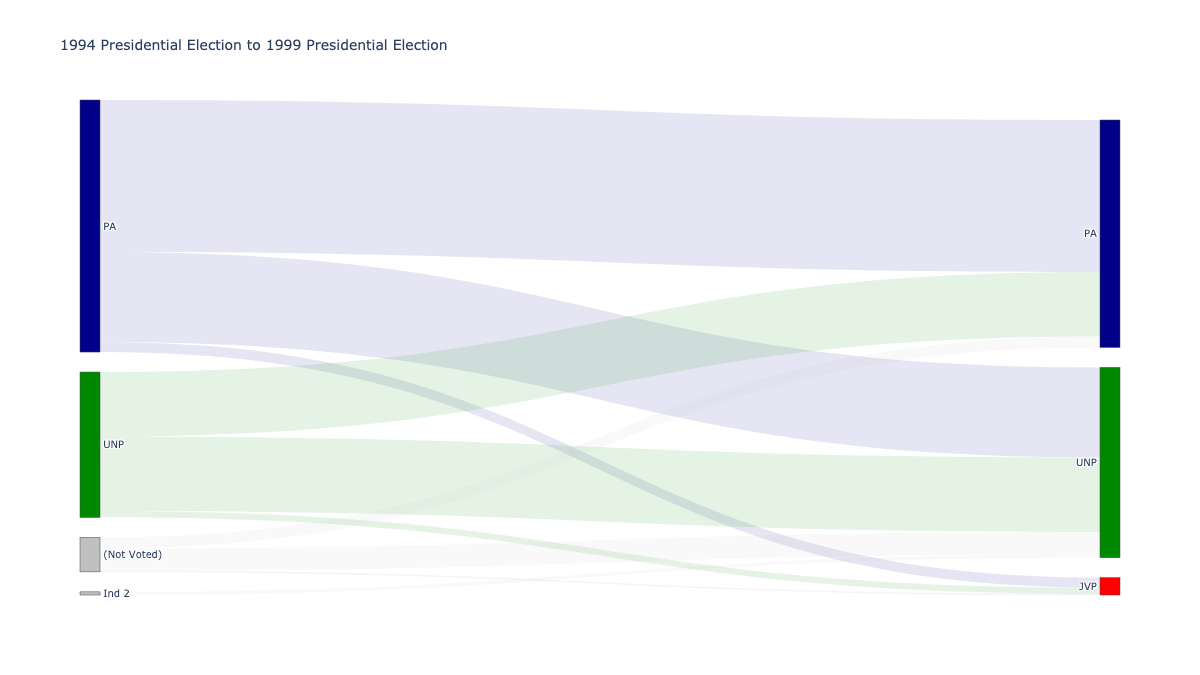
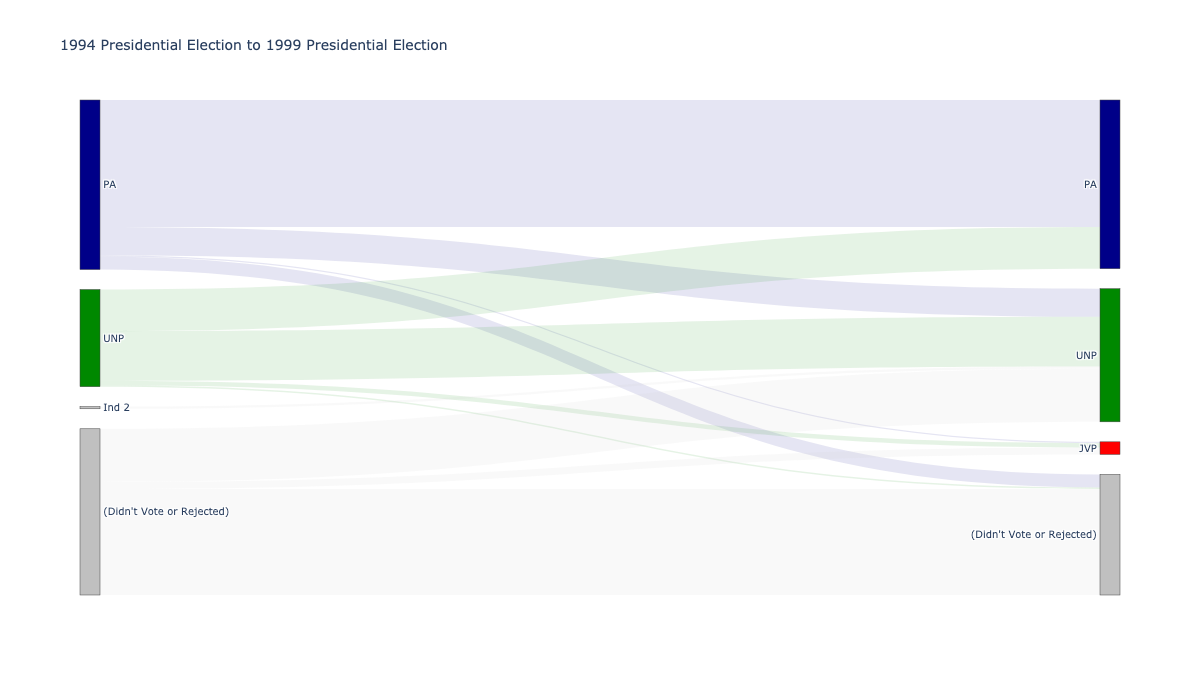
various

diff --git a/examples/example5_party_continuity/example5_party_continuity.py b/examples/example5_party_continuity/example5_party_continuity.py
@@ -4,12 +4,12 @@ import plotly.graph_objects as go
 from sklearn.linear_model import LinearRegression
 from utils import Log, TSVFile
 
-from elections_lk import ElectionParliamentary, Party,ElectionPresidential
+from elections_lk import ElectionPresidential, Party
 
 log = Log('PartyContinuity')
 
 P_LIMIT = 0.005
-NOT_VOTED = '(Not Voted)'
+NOT_COUNTED = '(Didn\'t Vote or Rejected)'
 WIDTH = 1200
 HEIGHT = 675
 
@@ -19,42 +19,54 @@ class PartyContinuity:
         self.election_x = election_x
         self.election_y = election_y
 
-    @staticmethod
-    def features(election):
+    def feature_idx(self, election):
         popular_parties = election.get_popular_parties(P_LIMIT)
         idx = {}
-        i = 0
         for result in election.results:
+            
             id = result.region_id
             if id in ['EC-11D']:
                 continue
             d = result.party_to_votes.dict
             x = [d.get(party, 0) for party in popular_parties]
             idx[id] = x
-        return [idx[id] for id in sorted(idx.keys())]
+
+            did_not_vote = result.summary_statistics.not_counted
+            x.append(did_not_vote)
+
+        return idx
 
     @property
-    def X(self):
-        return self.features(self.election_x)
+    def X_idx(self):
+        return self.feature_idx(self.election_x)
 
     @property
-    def Y(self):
-        return self.features(self.election_y)
+    def Y_idx(self):
+        return self.feature_idx(self.election_y)
 
     @property
-    def sample_weight(self):
+    def sample_weight_idx(self):
         idx = {}
         for result in self.election_x.results:
             id = result.region_id
             if id in ['EC-11D']:
                 continue
             idx[id] = result.party_to_votes.total
-        return [idx[id] for id in sorted(idx.keys())]
+        return idx
 
     @property
     def model(self):
-        X, Y = self.X, self.Y
-        model = LinearRegression(positive=False, fit_intercept=True)
+        X_idx, Y_idx, sample_weight_idx = self.X_idx, self.Y_idx, self.sample_weight_idx
+
+        common_keys = list(sorted(set(X_idx.keys()) & set(Y_idx.keys())))
+        X = [X_idx[key] for key in common_keys]
+        Y = [Y_idx[key] for key in common_keys]
+        self.sample_weight = [sample_weight_idx[key] for key in common_keys]
+
+        print(common_keys[0], X[0])
+        print(common_keys[0], Y[0])
+
+        model = LinearRegression(positive=True, fit_intercept=False)
         model.fit(X, Y, sample_weight=self.sample_weight)
         return model
 
@@ -75,37 +87,49 @@ class PartyContinuity:
 
         matrix = {}
 
-        for i_x, party_x in enumerate(popular_parties_x):
+        print(election_x.country_final_result.summary_statistics)
+
+        for i_x, party_x in enumerate(popular_parties_x + [NOT_COUNTED]):
             matrix[party_x] = {}
-            total = election_x.country_final_result.party_to_votes.dict.get(
-                party_x,
-                0,
-            )
-            for i_y, party_y in enumerate(popular_parties_y):
+
+            if party_x == NOT_COUNTED:
+                total = election_x.country_final_result.summary_statistics.not_counted
+            else:
+                total = election_x.country_final_result.party_to_votes.dict.get(
+                    party_x,
+                    0,
+                )
+            print(party_x, total)
+
+            for i_y, party_y in enumerate(popular_parties_y + [NOT_COUNTED]):
                 matrix[party_x][party_y] = model.coef_[i_y][i_x] * total
 
-        not_voted_y = {}
-        for party_y in popular_parties_y:
-            not_voted_y[party_y] = 0
-        not_voted_y[NOT_VOTED] = 0
-
-        for party_x in popular_parties_x:
-            total_x = election_x.country_final_result.party_to_votes.dict.get(
+        
+        for i_x, party_x in enumerate(popular_parties_x):
+            expected_total = election_x.country_final_result.party_to_votes.dict.get(
                 party_x,
                 0,
             )
-            total_y = sum(matrix[party_x].values())
-            not_voted_x = max(total_x - total_y, 0)
-            matrix[party_x][NOT_VOTED] = not_voted_x
+            actual_total = sum(matrix[party_x][party_y] for party_y in popular_parties_y)
+            r = actual_total / expected_total
+            print(party_x, actual_total, expected_total, r)
+            if r > 0:
+                for i_y, party_y in enumerate(popular_parties_y):
+                    actual = matrix[party_x][party_y]
+                    matrix[party_x][party_y] = actual / r
+                    excess  = actual * (1- 1/r)
+                    matrix[NOT_COUNTED][party_y] += excess
 
-            if total_y > total_x:
-                r = total_x / total_y
-                for party_y in popular_parties_y:
-                    val = matrix[party_x][party_y]
-                    matrix[party_x][party_y] = val * r
-                    not_voted_y[party_y] += val * (1 - r)
+        for i_y, party_y in enumerate(popular_parties_y):
+            if matrix[NOT_COUNTED][party_y] < 0:
+                rem = -matrix[NOT_COUNTED][party_y]
+                for i_x, party_x in enumerate(popular_parties_x):
+                    matrix[party_x][party_y] = max(0, matrix[party_x][party_y] - rem / len(popular_parties_x))
+                    rem = max(0, rem - matrix[party_x][party_y])
+                    if rem <= 0:
+                        break
+                matrix[NOT_COUNTED][party_y]  = -rem
 
-        matrix[NOT_VOTED] = not_voted_y
         return matrix
 
     @property
@@ -199,7 +223,7 @@ class PartyContinuity:
 
 if __name__ == '__main__':
     election_x = ElectionPresidential.from_year(2015)
-    election_y = ElectionPresidential.from_year(2019)    
+    election_y = ElectionPresidential.from_year(2019)
     report = PartyContinuity(election_x, election_y)
     report.save()
     report.draw()

diff --git a/src/elections_lk/__init__.py b/src/elections_lk/__init__.py
@@ -1,13 +1,11 @@
-from elections_lk.elections.Election import Election
-from elections_lk.elections.ElectionLocalAuthority import (
-    ElectionLocalAuthority,
-)
-from elections_lk.elections.ElectionParliamentary import ElectionParliamentary
-from elections_lk.elections.ElectionPresidential import ElectionPresidential
-
 from elections_lk.core.FinalResult import FinalResult
 from elections_lk.core.Party import Party
 from elections_lk.core.PartyToSeats import PartyToSeats
 from elections_lk.core.PartyToVotes import PartyToVotes
 from elections_lk.core.Result import Result
 from elections_lk.core.SummaryStatistics import SummaryStatistics
+from elections_lk.elections.Election import Election
+from elections_lk.elections.ElectionLocalAuthority import \
+    ElectionLocalAuthority
+from elections_lk.elections.ElectionParliamentary import ElectionParliamentary
+from elections_lk.elections.ElectionPresidential import ElectionPresidential

diff --git a/src/elections_lk/core/Party.py b/src/elections_lk/core/Party.py
@@ -7,7 +7,19 @@ COLOR_TO_PARTY_LIST = {
     '#880088': ['SLMP'],
     '#c0c0c0': ['(Not Voted)'],
     '#e0e0e0': ['IG', 'IG2', 'IG3'],
-    '#ff0000': ['ELMSP', 'EPDP', 'JVP', 'TULF', 'NMPP', 'MEP', 'USA', 'SLPF','DNA', 'JJB','TMVP'],
+    '#ff0000': [
+        'ELMSP',
+        'EPDP',
+        'JVP',
+        'TULF',
+        'NMPP',
+        'MEP',
+        'USA',
+        'SLPF',
+        'DNA',
+        'JJB',
+        'TMVP',
+    ],
     '#ff8800': ['CWC', 'SU', 'JHU'],
     '#ffff00': ['AITC', 'ITAK'],
 }

diff --git a/src/elections_lk/elections/ElectionParliamentary.py b/src/elections_lk/elections/ElectionParliamentary.py
@@ -3,11 +3,9 @@ from functools import cached_property
 from elections_lk.core.FinalResult import FinalResult
 from elections_lk.core.PartyToSeats import PartyToSeats
 from elections_lk.core.Result import Result
-
 from elections_lk.elections.ElectionWithPDResults import ElectionWithPDResults
-from elections_lk.elections.YEAR_TO_REGION_TO_SEATS import (
-    YEAR_TO_REGION_TO_SEATS,
-)
+from elections_lk.elections.YEAR_TO_REGION_TO_SEATS import \
+    YEAR_TO_REGION_TO_SEATS
 
 P_LIMIT_ED = 0.05
 BONUS_ED = 1

diff --git a/examples/example4_ethnic_voting/example4_ethnic_voting.py b/examples/example4_ethnic_voting/example4_ethnic_voting.py
@@ -4,11 +4,8 @@ from gig import Ent, GIGTable
 from sklearn.linear_model import LinearRegression
 from utils import Log, TSVFile
 
-from elections_lk import (
-    ElectionLocalAuthority,
-    ElectionParliamentary,
-    ElectionPresidential,
-)
+from elections_lk import (ElectionLocalAuthority, ElectionParliamentary,
+                          ElectionPresidential)
 
 GIG_TABLE_ETH = GIGTable('population-ethnicity', 'regions', '2012')
 GIG_TABLE_REL = GIGTable('population-religion', 'regions', '2012')

diff --git a/src/elections_lk/elections/Election.py b/src/elections_lk/elections/Election.py
@@ -23,6 +23,10 @@ class Election:
     def title(self):
         return f'{self.year} {self.get_election_type().title()} Election'
 
+    @property 
+    def results_idx(self):
+        return {result.region_id: result for result in self.results}
+
     @cached_property
     def all_parties(self):
         return sorted(self.country_final_result.party_to_votes.keys())

diff --git a/examples/examples1_to_3_local_authority/example3_lg_results_map_filtered.py b/examples/examples1_to_3_local_authority/example3_lg_results_map_filtered.py
@@ -4,8 +4,7 @@ import matplotlib.patches as mpatches
 import matplotlib.pyplot as plt
 from gig import Ent
 
-from elections_lk import ElectionLocalAuthority
-from elections_lk import Party
+from elections_lk import ElectionLocalAuthority, Party
 
 if __name__ == '__main__':
     election = ElectionLocalAuthority.from_year(2018)

diff --git a/tests/test_final_result.py b/tests/test_final_result.py
@@ -1,11 +1,7 @@
 from unittest import TestCase
 
-from elections_lk import (
-    FinalResult,
-    PartyToSeats,
-    PartyToVotes,
-    SummaryStatistics,
-)
+from elections_lk import (FinalResult, PartyToSeats, PartyToVotes,
+                          SummaryStatistics)
 
 TEST_RESULT = FinalResult(
     region_id='EC-01A',

diff --git a/src/elections_lk/elections/ElectionPresidential.py b/src/elections_lk/elections/ElectionPresidential.py
@@ -3,7 +3,6 @@ from functools import cached_property
 from elections_lk.core.FinalResult import FinalResult
 from elections_lk.core.PartyToSeats import PartyToSeats
 from elections_lk.core.Result import Result
-
 from elections_lk.elections.ElectionWithPDResults import ElectionWithPDResults
 
 

diff --git a/tests/test_election_parliamentary.py b/tests/test_election_parliamentary.py
@@ -1,7 +1,6 @@
 from unittest import TestCase
 
-from elections_lk import ElectionParliamentary
-from elections_lk import SummaryStatistics
+from elections_lk import ElectionParliamentary, SummaryStatistics
 
 TEST_YEAR = 2020
 TEST_ELECTION = ElectionParliamentary.from_year(TEST_YEAR)

diff --git a/tests/test_election_presidential.py b/tests/test_election_presidential.py
@@ -1,7 +1,6 @@
 from unittest import TestCase
 
-from elections_lk import ElectionPresidential
-from elections_lk import SummaryStatistics
+from elections_lk import ElectionPresidential, SummaryStatistics
 
 TEST_YEAR = 2019
 TEST_ELECTION = ElectionPresidential.from_year(TEST_YEAR)

diff --git a/src/elections_lk/core/SummaryStatistics.py b/src/elections_lk/core/SummaryStatistics.py
@@ -22,6 +22,10 @@ class SummaryStatistics:
     def p_turnout(self):
         return self.polled / self.electors
 
+    @property 
+    def not_counted(self):
+        return self.electors - self.valid
+
     @staticmethod
     def concat(
         summary_statistics_list: list,
